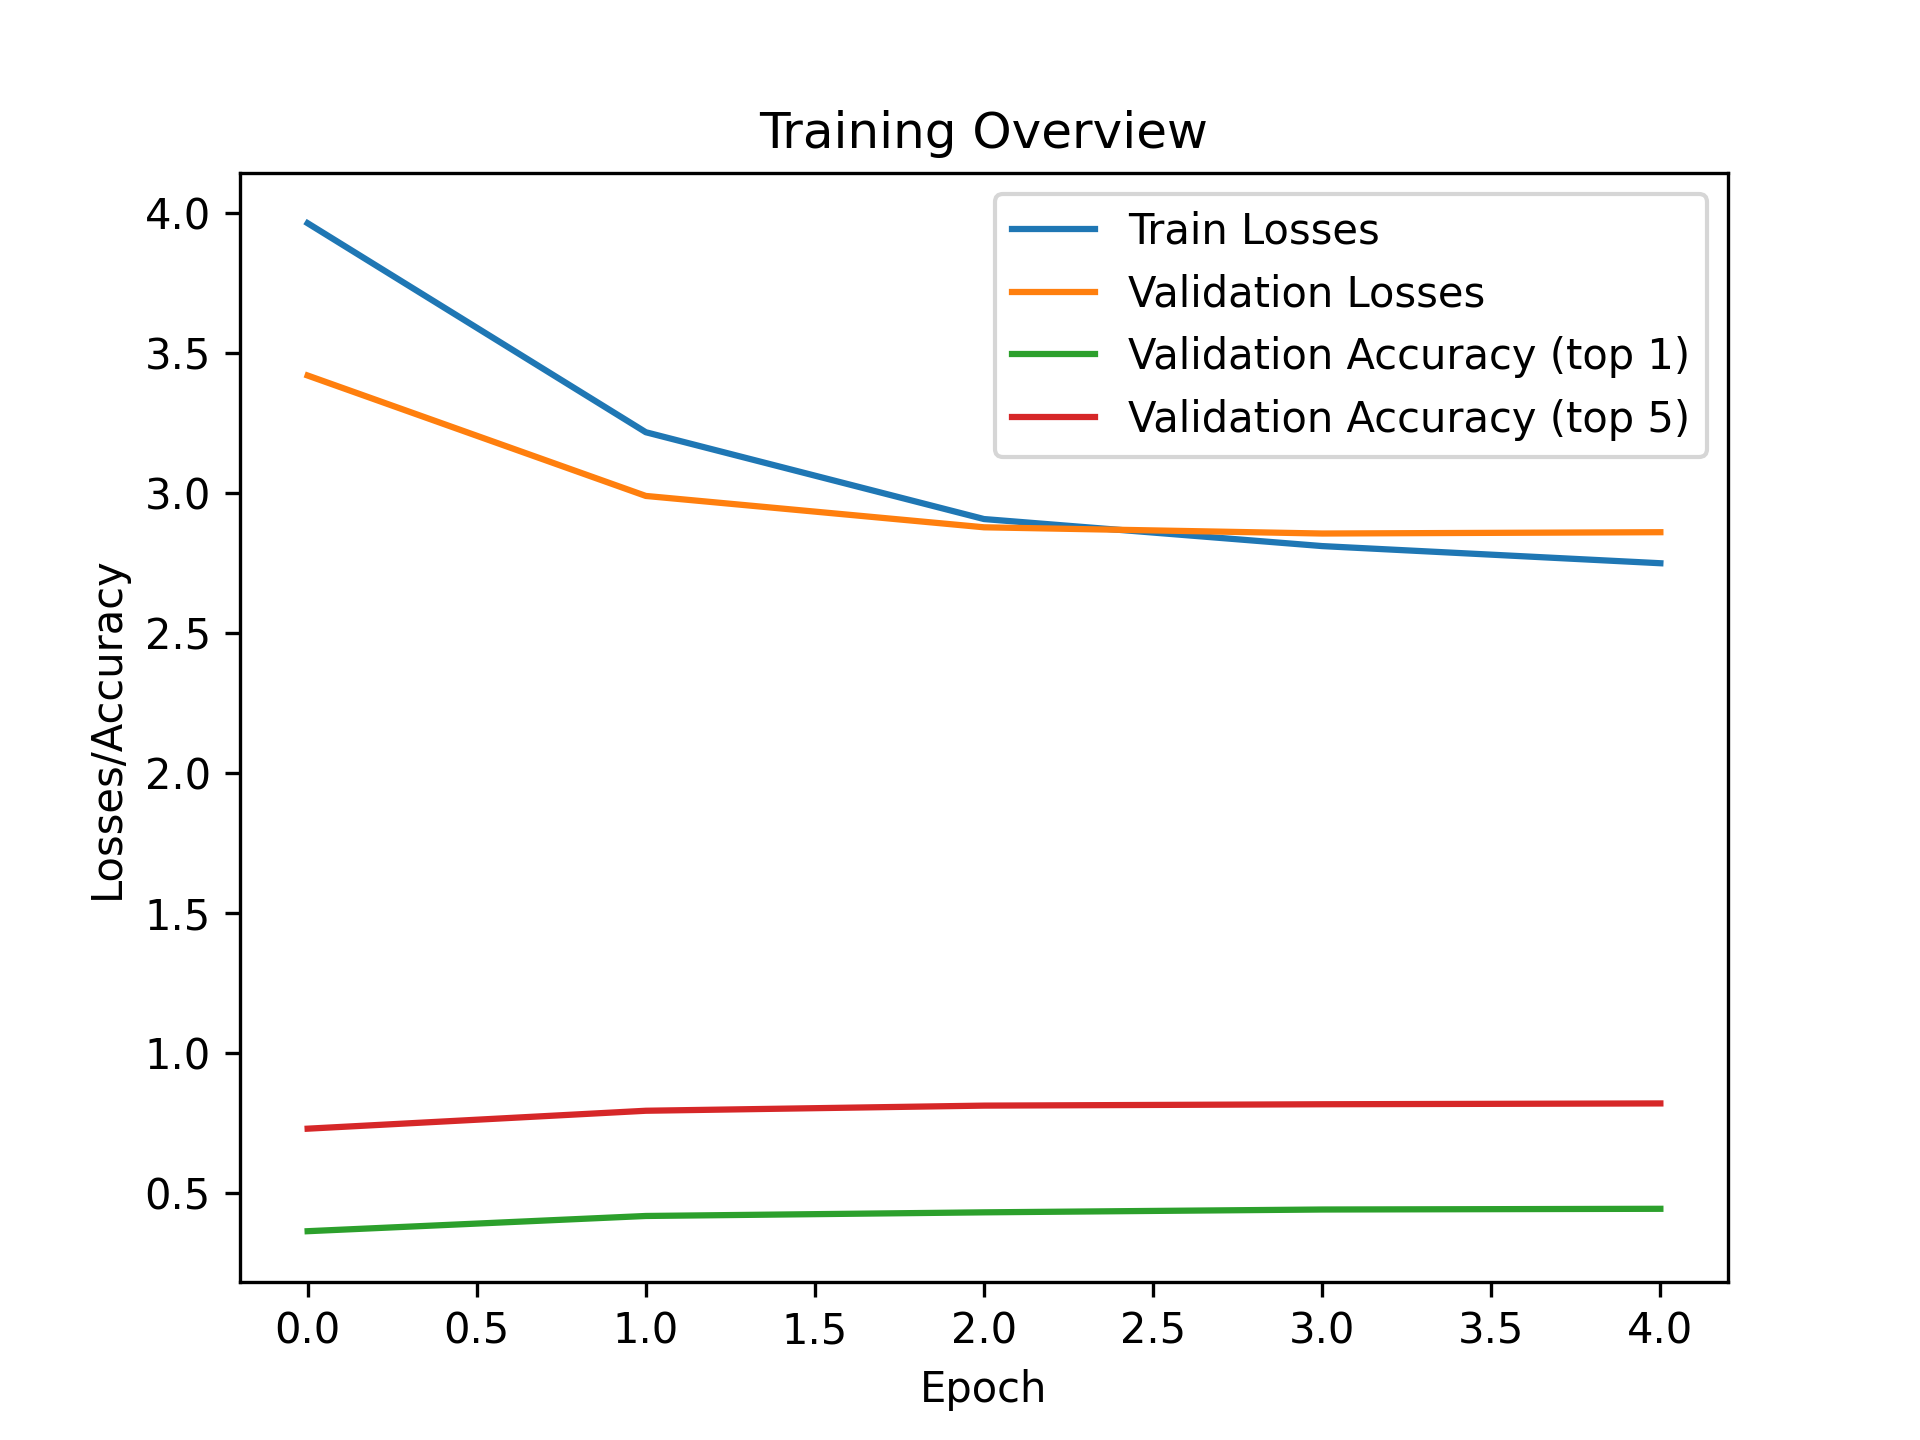
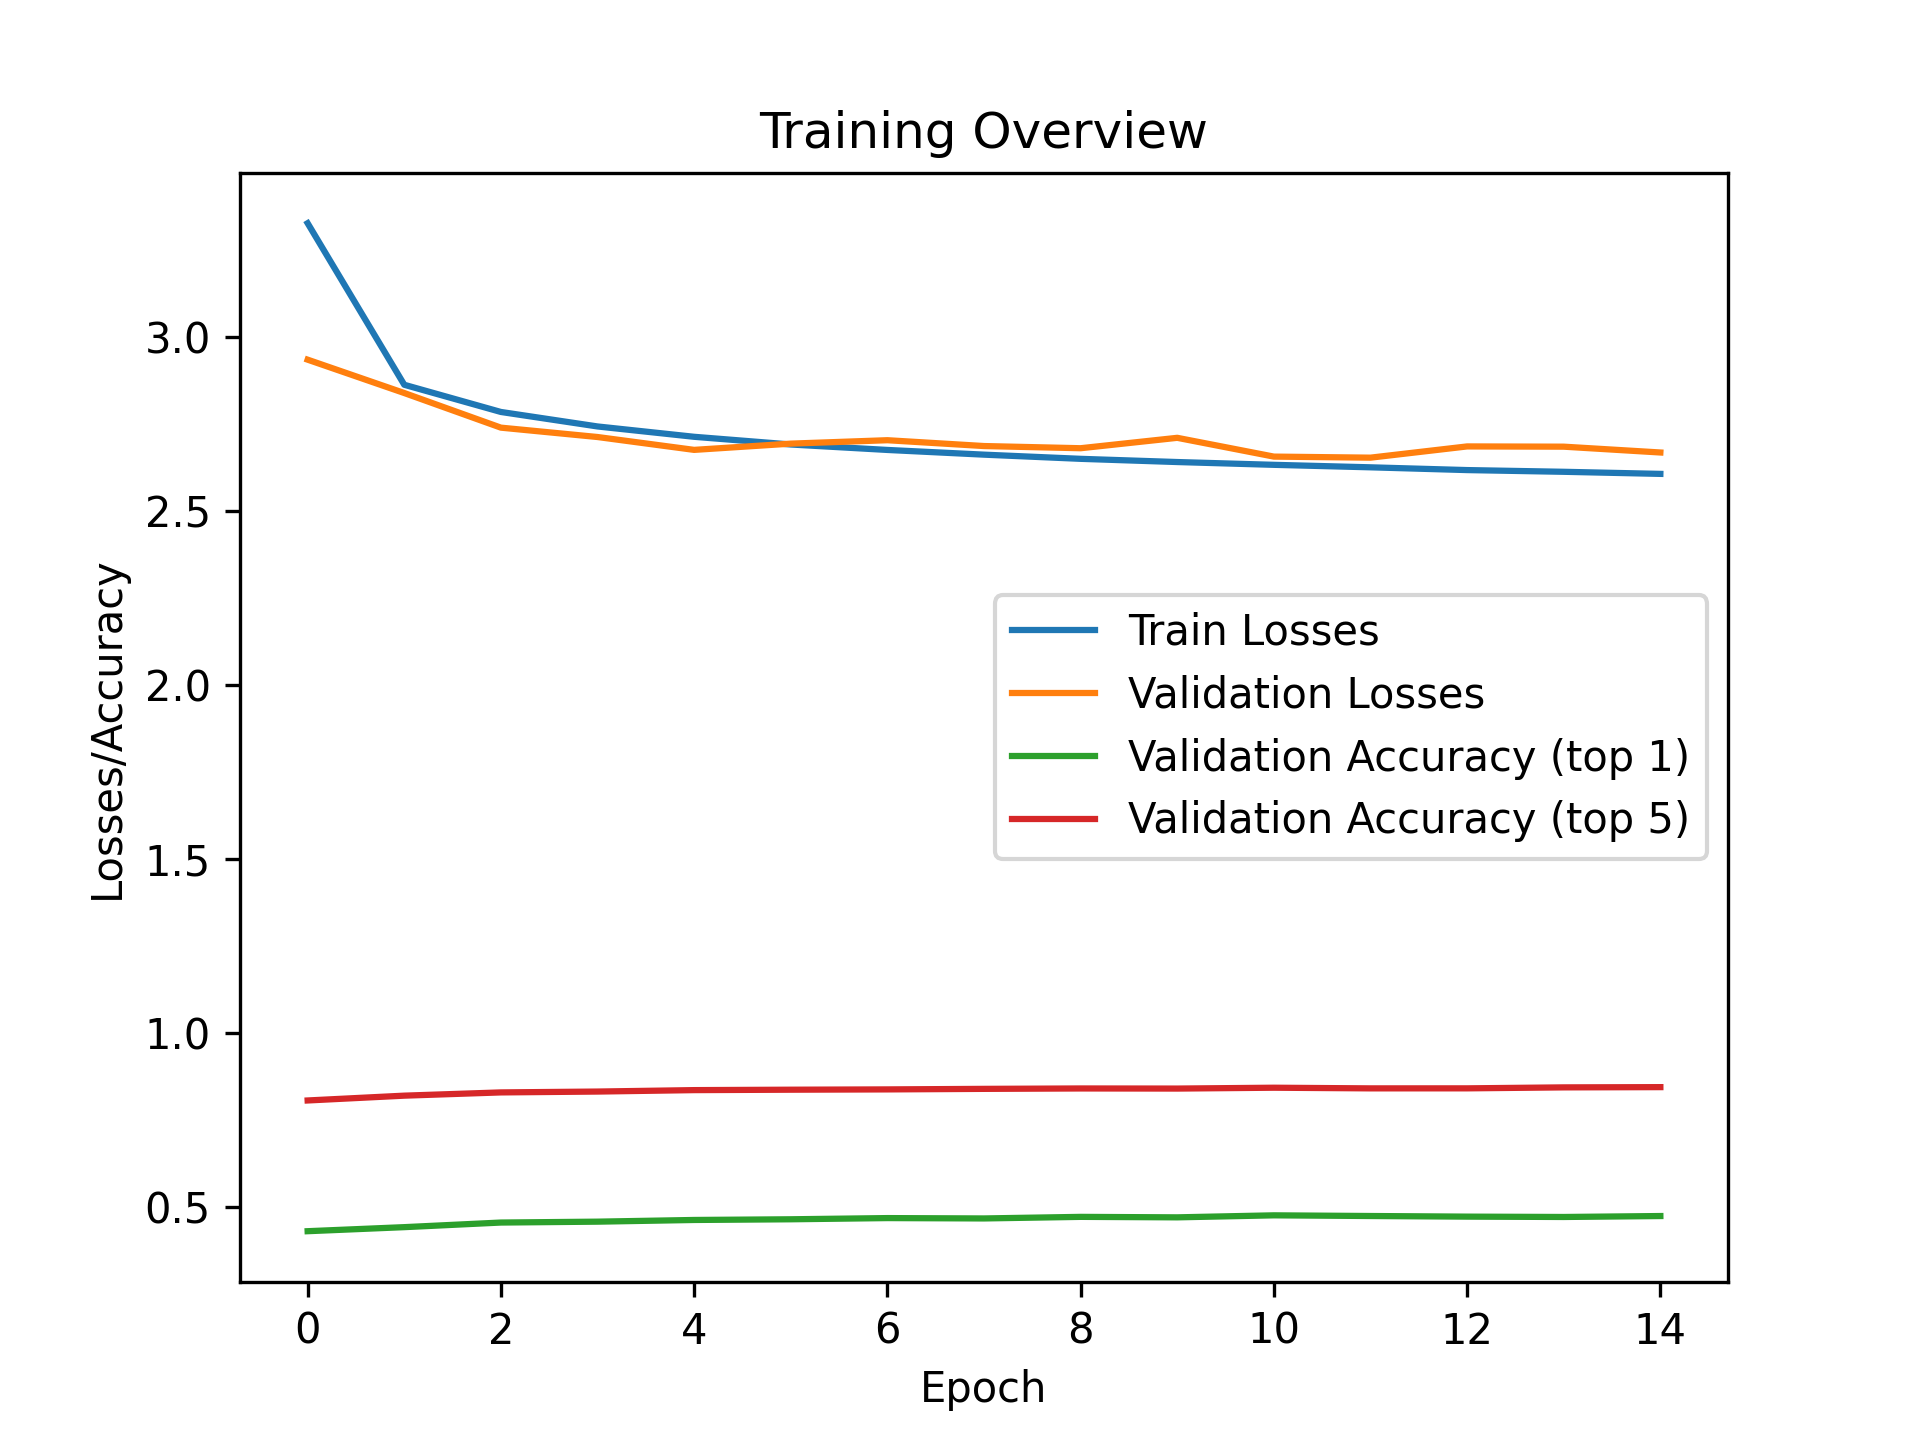
doc: updated sample training log and training overview picture

diff --git a/README.md b/README.md
@@ -17,22 +17,28 @@ NN training graph:
 Sample training log:
 
 ```log
-2026-02-12 20:52:51 | INFO | training | Starting training
-2026-02-12 20:52:51 | INFO | training | Total epoch = 5
-2026-02-12 20:52:51 | INFO | training | Board size = 9
-2026-02-12 20:52:51 | INFO | training | Batch size = 256
-2026-02-12 20:52:51 | INFO | training | train_dataset length: 654166
-2026-02-12 20:52:51 | INFO | training | val_dataset length: 80000
-2026-02-12 20:52:51 | INFO | training | test_dataset length: 80000
-2026-02-12 20:52:52 | WARNING | training | Checkpoint file does not exist. Starting with no checkpoint file.
-2026-02-12 20:55:24 | INFO | training | Epoch 0 finished | train_loss = 3.9646 | val_loss = 3.4206 | val_acc1 = 0.3646 | val_acc5 = 0.7308
-2026-02-12 20:57:58 | INFO | training | Epoch 1 finished | train_loss = 3.2181 | val_loss = 2.9906 | val_acc1 = 0.4190 | val_acc5 = 0.7948
-2026-02-12 21:00:37 | INFO | training | Epoch 2 finished | train_loss = 2.9080 | val_loss = 2.8786 | val_acc1 = 0.4320 | val_acc5 = 0.8131
-2026-02-12 21:03:18 | INFO | training | Epoch 3 finished | train_loss = 2.8115 | val_loss = 2.8563 | val_acc1 = 0.4421 | val_acc5 = 0.8180
-2026-02-12 21:05:59 | INFO | training | Epoch 4 finished | train_loss = 2.7502 | val_loss = 2.8610 | val_acc1 = 0.4446 | val_acc5 = 0.8209
-2026-02-12 21:06:04 | INFO | training | TEST | loss = 2.8651 | acc1 = 0.4498 | acc5 = 0.8234
-2026-02-12 21:06:04 | INFO | training | Total training time: 793.3938 seconds
-2026-02-12 21:15:41 | INFO | training | Training end
+2026-02-14 09:02:29 | INFO | training | Starting training
+2026-02-14 09:02:29 | INFO | training | Total epoch = 10
+2026-02-14 09:02:29 | INFO | training | Board size = 9
+2026-02-14 09:02:29 | INFO | training | Batch size = 256
+2026-02-14 09:02:30 | INFO | training | train_dataset length: 1334166
+2026-02-14 09:02:30 | INFO | training | val_dataset length: 165765
+2026-02-14 09:02:30 | INFO | training | test_dataset length: 165807
+2026-02-14 09:07:35 | INFO | training | Epoch 5 finished | train_loss = 2.6912 | val_loss = 2.6936 | val_acc1 = 0.4633 | val_acc5 = 0.8359
+2026-02-14 09:12:38 | INFO | training | Epoch 6 finished | train_loss = 2.6755 | val_loss = 2.7035 | val_acc1 = 0.4667 | val_acc5 = 0.8368
+2026-02-14 09:17:53 | INFO | training | Epoch 7 finished | train_loss = 2.6620 | val_loss = 2.6867 | val_acc1 = 0.4657 | val_acc5 = 0.8383
+2026-02-14 09:23:37 | INFO | training | Epoch 8 finished | train_loss = 2.6499 | val_loss = 2.6805 | val_acc1 = 0.4702 | val_acc5 = 0.8395
+2026-02-14 09:29:22 | INFO | training | Epoch 9 finished | train_loss = 2.6407 | val_loss = 2.7104 | val_acc1 = 0.4689 | val_acc5 = 0.8392
+2026-02-14 09:35:19 | INFO | training | Found a better state at epoch 10
+2026-02-14 09:35:19 | INFO | training | Epoch 10 finished | train_loss = 2.6327 | val_loss = 2.6564 | val_acc1 = 0.4747 | val_acc5 = 0.8416
+2026-02-14 09:41:24 | INFO | training | Found a better state at epoch 11
+2026-02-14 09:41:24 | INFO | training | Epoch 11 finished | train_loss = 2.6255 | val_loss = 2.6533 | val_acc1 = 0.4727 | val_acc5 = 0.8397
+2026-02-14 09:47:25 | INFO | training | Epoch 12 finished | train_loss = 2.6176 | val_loss = 2.6856 | val_acc1 = 0.4709 | val_acc5 = 0.8398
+2026-02-14 09:53:44 | INFO | training | Epoch 13 finished | train_loss = 2.6127 | val_loss = 2.6849 | val_acc1 = 0.4699 | val_acc5 = 0.8426
+2026-02-14 10:00:11 | INFO | training | Epoch 14 finished | train_loss = 2.6067 | val_loss = 2.6682 | val_acc1 = 0.4727 | val_acc5 = 0.8433
+2026-02-14 10:00:24 | INFO | training | TEST | loss = 2.7019 | acc1 = 0.4711 | acc5 = 0.8416
+2026-02-14 10:00:24 | INFO | training | Total training time: 3475.0965 seconds
+2026-02-14 10:00:52 | INFO | training | Training end
 ```
 
 ## Timeline
